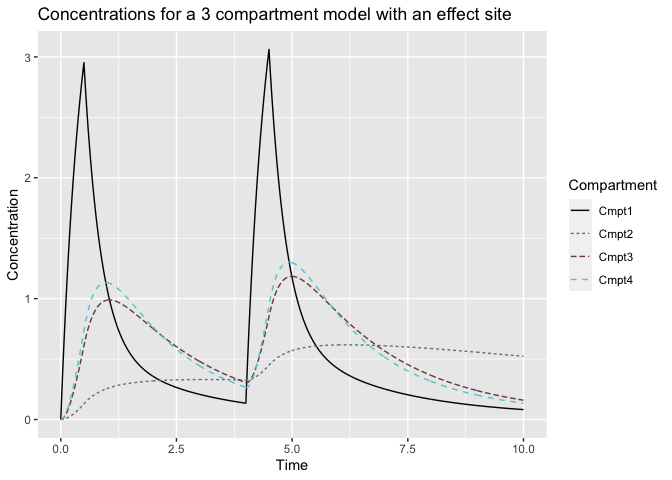
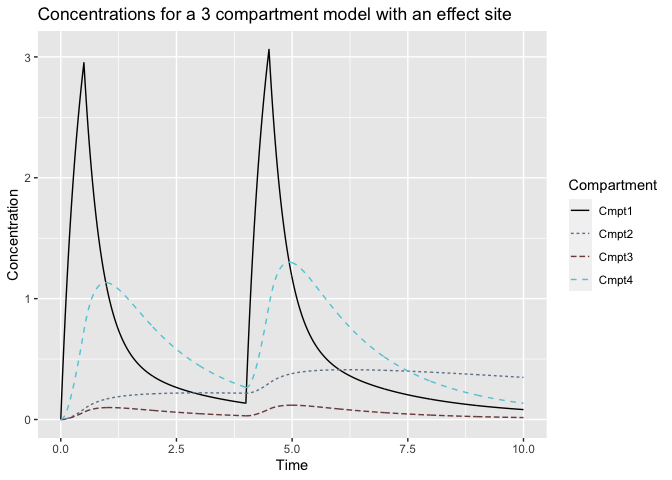
Updated README to describe implementation of population PK models.

diff --git a/README.md b/README.md
@@ -24,6 +24,8 @@ library(tci)
 
 ## Examples
 
+### PK Models
+
 PK models can be evaluated by the `predict.pkmod` method in combination
 with a dosing schedule. Dosing schedules should indicate infusion
 starting times and rates, with the infusion termination time specified
@@ -57,10 +59,10 @@ predict(pkmod3cptm,
         tms = c(1,2,8))
 ```
 
-    ##      time        c1        c2        c3        c4
-    ## [1,]    1 1.0812467 0.2562151 0.9872216 1.1317615
-    ## [2,]    2 0.3558635 0.3194421 0.7501638 0.7619403
-    ## [3,]    8 0.1675395 0.5871575 0.3653374 0.3157391
+    ##      time        c1        c2         c3        c4
+    ## [1,]    1 1.0812467 0.1708101 0.09872216 1.1317615
+    ## [2,]    2 0.3558635 0.2129614 0.07501638 0.7619403
+    ## [3,]    8 0.1675395 0.3914383 0.03653374 0.3157391
 
 ``` r
 # plot concentrations
@@ -69,6 +71,8 @@ plot(pkmod3cptm, inf = dose, pars = pars_3cpt,
 ```
 
 <img src="README_files/figure-gfm/dose-object-1.png" style="display: block; margin: auto;" />
+
+### TCI algorithms
 
 TCI algorithms are iteratively applied through the function ‘tci’. Times
 and target concentrations are passed as arguments along with a PK model,
@@ -98,6 +102,29 @@ inf_3cpt_effect <- tci(Ct = tci_targets,
                        tci_alg = "effect", 
                        cptol = 0.2)
 
+head(inf_3cpt_effect)
+```
+
+    ##          infrt     begin       end        dt Ct c1_start   c2_start   c3_start
+    ## [1,] 521.59270 0.0000000 0.1666667 0.1666667  2 0.000000 0.00000000 0.00000000
+    ## [2,]   0.00000 0.1666667 0.3333333 0.1666667  2 7.157983 0.06327658 0.04862527
+    ## [3,]   0.00000 0.3333333 0.5000000 0.1666667  2 4.856783 0.16024552 0.11615645
+    ## [4,]   0.00000 0.5000000 0.6666667 0.1666667  2 3.382646 0.22508402 0.15220327
+    ## [5,]   0.00000 0.6666667 0.8333333 0.1666667  2 2.430990 0.26923296 0.16893074
+    ## [6,]  43.81325 0.8333333 1.0000000 0.1666667  2 1.809977 0.29993095 0.17395669
+    ##       c4_start   c1_end     c2_end     c3_end    c4_end
+    ## [1,] 0.0000000 7.157983 0.06327658 0.04862527 0.6010525
+    ## [2,] 0.6010525 4.856783 0.16024552 0.11615645 1.4129871
+    ## [3,] 1.4129871 3.382646 0.22508402 0.15220327 1.8170870
+    ## [4,] 1.8170870 2.430990 0.26923296 0.16893074 1.9771107
+    ## [5,] 1.9771107 1.809977 0.29993095 0.17395669 1.9944762
+    ## [6,] 1.9944762 2.000000 0.32708413 0.17612465 1.9820862
+
+Infusion schedules are provided in the output of ‘tci’ along with
+predicted concentrations and can be plotted with the “plot.tciinf”
+method.
+
+``` r
 ptci_2ug_plasma <- plot(inf_3cpt_plasma, 
                         title = "Plasma targeting for three-compartment model",
                         display = FALSE)
@@ -109,4 +136,58 @@ ptci_2ug_effect <- plot(inf_3cpt_effect,
 grid.arrange(ptci_2ug_plasma, ptci_2ug_effect)
 ```
 
-<img src="README_files/figure-gfm/tci-algs-1.png" style="display: block; margin: auto;" />
+<img src="README_files/figure-gfm/plot-tci-1.png" style="display: block; margin: auto;" />
+
+### Population PK models
+
+Functions implementing the Marsh, Schnider, and Eleveld population PK
+models for propofol (PK-PD for Eleveld model) are currently provided and
+can be used to calculate PK and PK-PD parameters at patient covariates
+or to simulate parameters for new patients given inter-patient parameter
+variability.
+
+``` r
+patient_dat <- data.frame(AGE  = c(20,40,65),
+                          TBM  = c(50,70,90),
+                          HGT  = c(150,170,200),
+                          MALE = c(TRUE,FALSE,TRUE))
+
+# evaluate at covariate values and return clearance parameters
+patient_pk <- schnider_poppk(patient_dat, rand = FALSE, rate = FALSE)
+patient_pk
+```
+
+    ##   AGE TBM HGT  MALE      LBM   V1     V2  V3       CL    Q2    Q3   KE0
+    ## 1  20  50 150  TRUE 40.77778 4.27 31.803 238 1.186933 0.498 0.836 0.456
+    ## 2  40  70 170 FALSE 49.80657 4.27 23.983 238 2.012072 0.978 0.836 0.456
+    ## 3  65  90 200  TRUE 73.08000 4.27 14.208 238 2.131152 1.578 0.836 0.456
+
+``` r
+# evaluate TCI for patient 1
+tci_patient1 <- tci(Ct = tci_targets, 
+                    tms = tci_times, 
+                    pkmod = pkmod3cptm, 
+                    pars = patient_pk[1,], 
+                    tci_alg = "effect")
+head(tci_patient1)
+```
+
+    ##         infrt     begin       end        dt Ct c1_start    c2_start    c3_start
+    ## [1,] 159.1048 0.0000000 0.1666667 0.1666667  2 0.000000 0.000000000 0.000000000
+    ## [2,]   0.0000 0.1666667 0.3333333 0.1666667  2 5.914495 0.007837502 0.001759305
+    ## [3,]   0.0000 0.3333333 0.5000000 0.1666667  2 5.360630 0.022498661 0.005055038
+    ## [4,]   0.0000 0.5000000 0.6666667 0.1666667  2 4.859024 0.035747266 0.008040233
+    ## [5,]   0.0000 0.6666667 0.8333333 0.1666667  2 4.404746 0.047716670 0.010744190
+    ## [6,]   0.0000 0.8333333 1.0000000 0.1666667  2 3.993330 0.058527644 0.013193442
+    ##       c4_start   c1_end      c2_end      c3_end    c4_end
+    ## [1,] 0.0000000 5.914495 0.007837502 0.001759305 0.2227103
+    ## [2,] 0.2227103 5.360630 0.022498661 0.005055038 0.6183984
+    ## [3,] 0.6183984 4.859024 0.035747266 0.008040233 0.9465626
+    ## [4,] 0.9465626 4.404746 0.047716670 0.010744190 1.2157835
+    ## [5,] 1.2157835 3.993330 0.058527644 0.013193442 1.4336701
+    ## [6,] 1.4336701 3.620730 0.068289564 0.015412023 1.6069638
+
+`tci` functions are compatible with other user-specified population PK
+models provided that they return parameters with either elimination
+rate-constants named “k10”, “k12”, etc. (capitalization optional), or as
+clearance parameters “CL”, “Q2”, etc.
